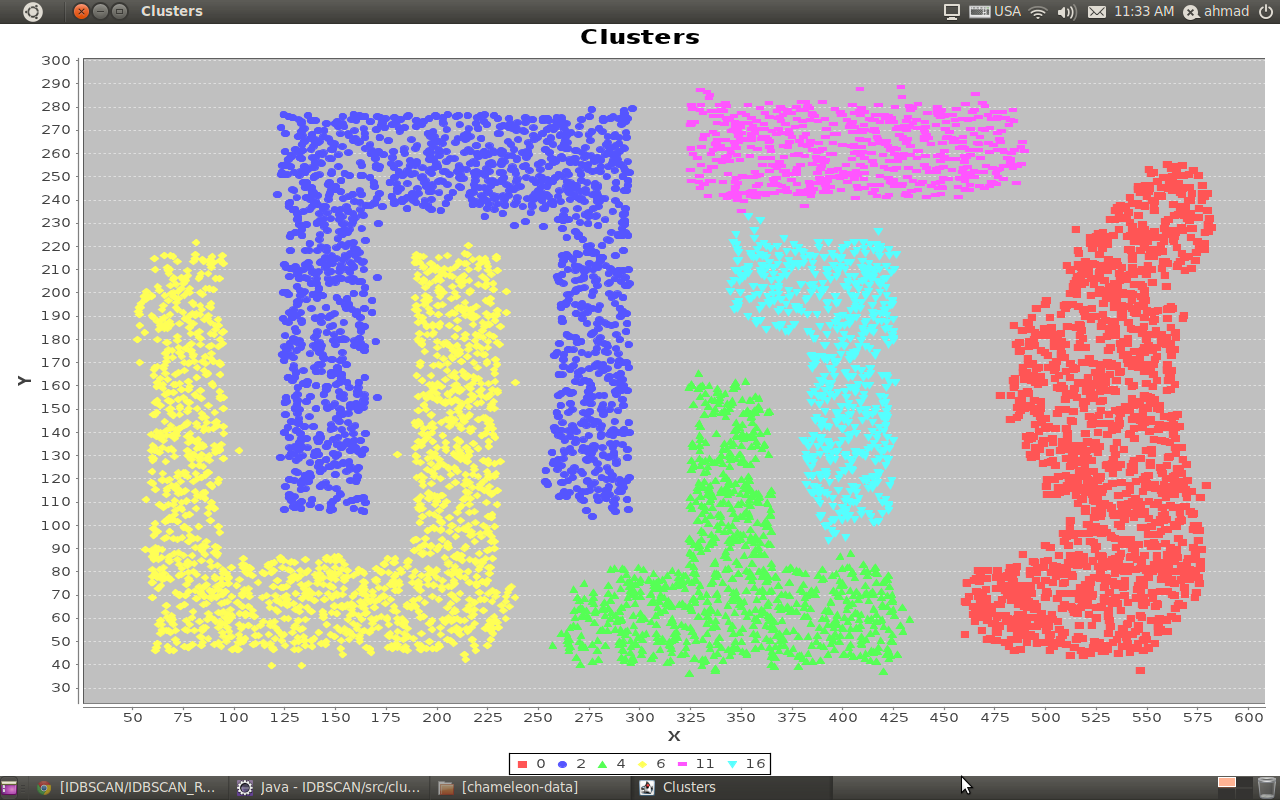
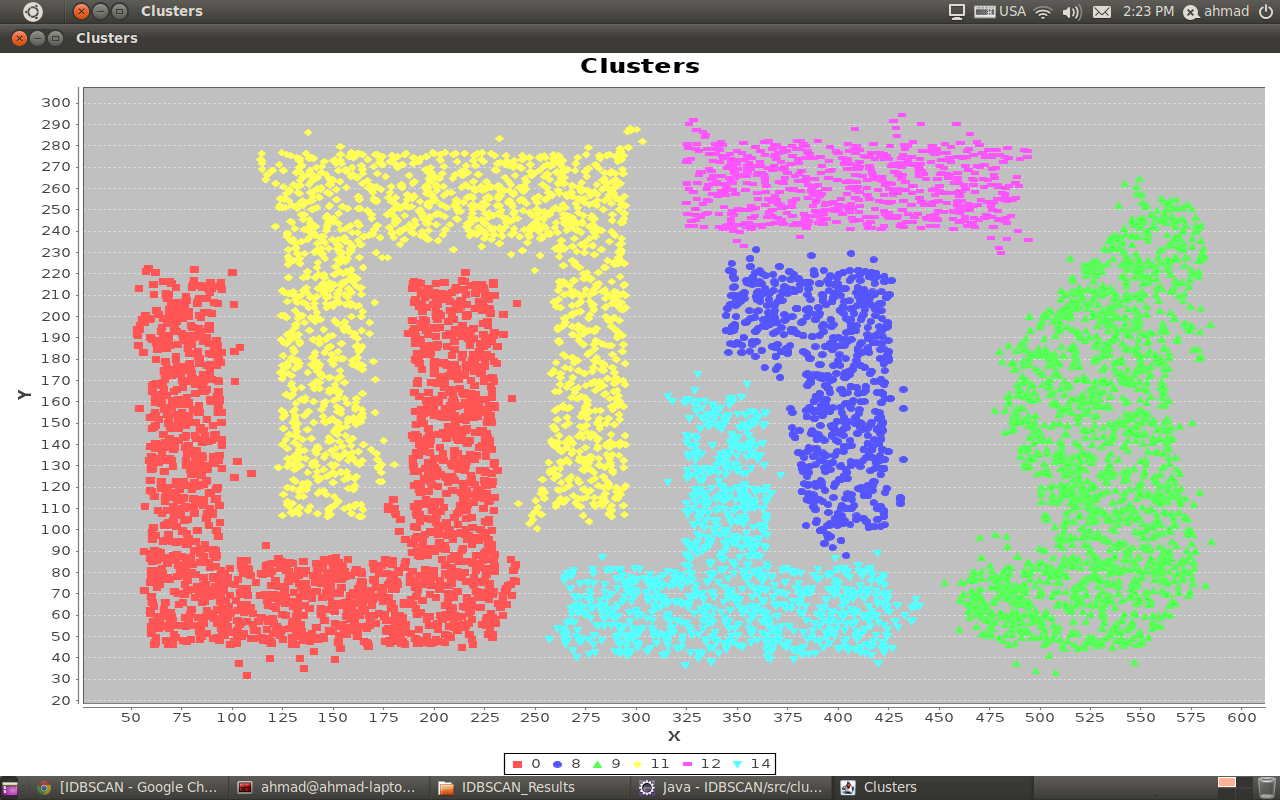
add noise detection and outliers labeling for enhanced DBSCAN

diff --git a/src/clustering/algorithms/EnhancedDBSCAN.java b/src/clustering/algorithms/EnhancedDBSCAN.java
@@ -48,8 +48,8 @@ public class EnhancedDBSCAN {
 			dbscanpart.run(eps, minPts);			
 		}
 		collectDenseRegions(bestRanSolution.getMedoids());
-		
 		mergeRegions(alpha);
+		removeNoiseAndLabelOutliers();
 	}
 	
 	/**
@@ -208,15 +208,48 @@ public class EnhancedDBSCAN {
 		return this.clusters;
 	}
 	
+	private void removeNoiseAndLabelOutliers(){
+		for (int i = 0; i < this.dataset.size(); i++) {
+			DatasetPoint p = this.dataset.get(i);
+			if (p.getAssignedCluster().equalsIgnoreCase("")){
+				DenseRegion d = getNearestRegion(p);
+				
+				if(d!=null)d.addPoint(p.getID());
+			}
+		}
+	}
+	
+	private DenseRegion getNearestRegion(DatasetPoint point){
+		DenseRegion denseRegion = null;
+		Double minDistance = Double.MAX_VALUE;
+		for (int i = 0; i < this.denseRegions.size(); i++) {
+			DenseRegion d = this.denseRegions.get(i);
+			ArrayList<Integer> points = d.getPoints();
+			for (int j = 0; j < points.size(); j++) {
+				DatasetPoint p2 = this.dataset.get(points.get(j));
+				if (p2.getIsNoise()) continue;
+				double distance = calculateDistanceBtwTwoPoints(point, p2);
+				if(distance < minDistance){
+					denseRegion = d;
+					minDistance = distance;
+				}
+			}
+		}
+		
+		if(minDistance > this.eps) return null;
+		
+		return denseRegion;
+	}
+	
 	public static void main(String[] args) throws IOException {
 		int numLocals = 9;
 		int maxNeighbors = 5;
-		int numPartitions =70;
-		double eps = 10;
-		int minPts= 15;
-		double alpha = 0.05;
+		int numPartitions =75;
+		double eps = 5;
+		int minPts= 12;
+		double alpha = 0.01;
 		ChameleonData datasetLoader = new ChameleonData();
-		ArrayList<DatasetPoint> dataset = datasetLoader.loadArrayList("/media/disk/master/Courses/Machine_Learning/datasets/chameleon-data/t7.10k.dat");	
+		ArrayList<DatasetPoint> dataset = datasetLoader.loadArrayList("/media/disk/master/Courses/Machine_Learning/datasets/chameleon-data/t5.8k.dat");	
 		EnhancedDBSCAN eDBSCAN = new EnhancedDBSCAN(dataset);
 		eDBSCAN.run(numLocals, maxNeighbors, numPartitions, eps, minPts, alpha);
 		ArrayList<Cluster> clusters = eDBSCAN.getClusters();
